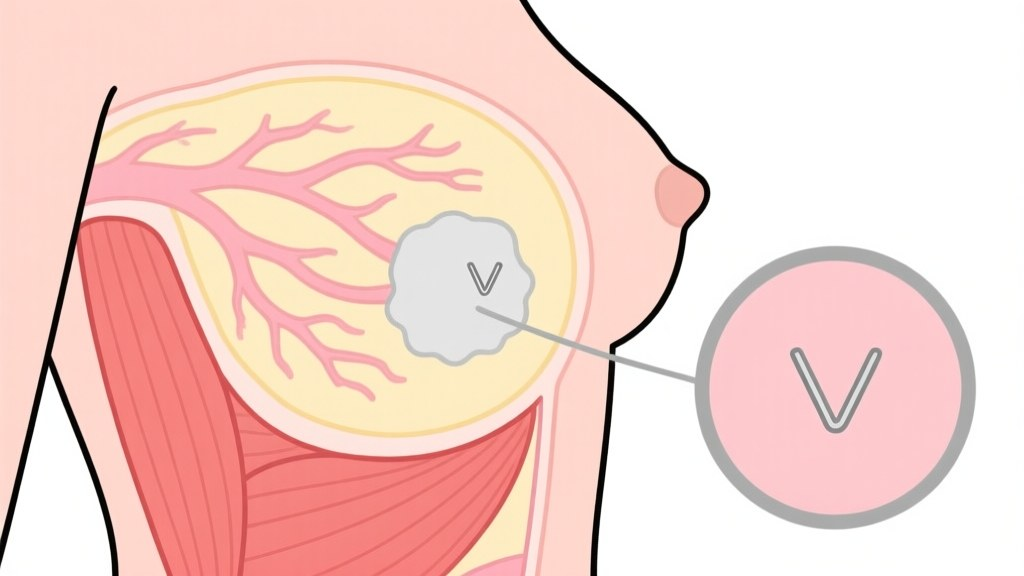
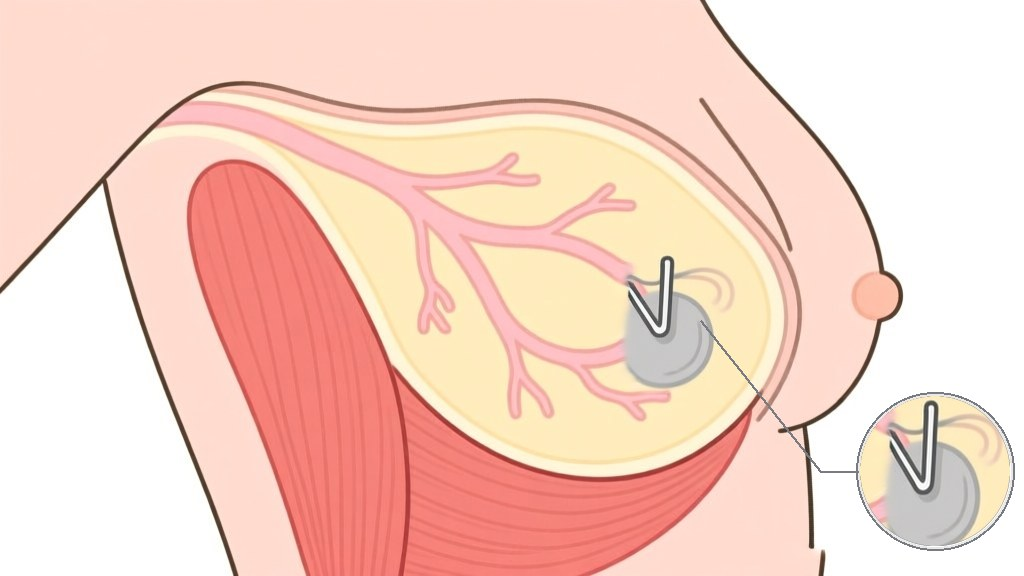
step 7 per Alex: the marker clip now sits in the SAME deep lump as step 1 — rebuilt by inpainting step 1's own illustration (mask over its lump + inset area) and compositing the magnified inset with a leader line, so the two illustrations share one breast and one lesion by construction

diff --git a/index2.html b/index2.html
@@ -597,31 +597,31 @@ const I18N={"en":{"html":{"k01":"Larger text","k02":"High contrast","k03":"Print
   const STEPS = [
     {t:"Your breast and the lump",
      n:"The lump your doctor wants to check is inside your breast. Most breast lumps are not cancer, but a sample is the only way to know for certain.",
-     media:{kind:'img', src:'assets/b1_anatomy.jpg?v=13', alt:"Side-view illustration of the breast: fat, gland and ducts around a grey lump, sitting on the chest muscle."}},
+     media:{kind:'img', src:'assets/b1_anatomy.jpg?v=14', alt:"Side-view illustration of the breast: fat, gland and ducts around a grey lump, sitting on the chest muscle."}},
     {t:"Finding the lump with ultrasound",
      n:"You lie on your back with your arm above your head. The doctor moves an ultrasound probe over the skin, and the screen shows the lump, where it sits and how deep it is.",
-     media:{kind:'vid', src:'assets/m2_probe_glide.mp4?v=13', poster:'assets/b2_probe.jpg', alt:"A sterile-sleeved ultrasound probe glides over the skin with a little clear gel, guided by a gloved hand."}},
+     media:{kind:'vid', src:'assets/m2_probe_glide.mp4?v=14', poster:'assets/b2_probe.jpg', alt:"A sterile-sleeved ultrasound probe glides over the skin with a little clear gel, guided by a gloved hand."}},
     {t:"Cleaning the skin",
      n:"The skin over the lump is cleaned and the area is covered with a sterile drape. That is all this step involves, and it takes a moment.",
-     media:{kind:'vid', src:'assets/m3_drape.mp4?v=13', poster:'assets/b3_drape.jpg', alt:"Gloved hands unfold a light-blue sterile drape and bring it gently toward you."}},
+     media:{kind:'vid', src:'assets/m3_drape.mp4?v=14', poster:'assets/b3_drape.jpg', alt:"Gloved hands unfold a light-blue sterile drape and bring it gently toward you."}},
     {t:"Numbing the area",
      n:"Local anaesthetic is injected into the skin and deeper into the breast. It stings for a few seconds, and then the area goes numb. You stay awake the whole time.",
-     media:{kind:'vid', src:'assets/m4_lido.mp4?v=13', poster:'assets/b4_lido.jpg?v=13', alt:"A small syringe with a fine needle advances into the skin beside the areola; the skin dimples as the anaesthetic goes in."}},
+     media:{kind:'vid', src:'assets/m4_lido.mp4?v=14', poster:'assets/b4_lido.jpg?v=14', alt:"A small syringe with a fine needle advances into the skin beside the areola; the skin dimples as the anaesthetic goes in."}},
     {t:"A small nick in the skin",
      n:"The anaesthetic has taken effect and the skin is numb. A tiny nick is made in the skin at the spot the needle will enter, so the biopsy needle passes through cleanly.",
-     media:{kind:'img', src:'assets/b5_nick.jpg?v=13', alt:"A blue-gloved hand holds a fine scalpel blade against the numb skin, making a tiny nick at the entry spot."}},
+     media:{kind:'img', src:'assets/b5_nick.jpg?v=14', alt:"A blue-gloved hand holds a fine scalpel blade against the numb skin, making a tiny nick at the entry spot."}},
     {t:"The biopsy needle goes in",
      n:"The biopsy needle is introduced under ultrasound guidance and guided into the lump. Each time the device fires you will hear a short, sharp click as a thin core of tissue is taken; the needle is drawn back and re-introduced until enough tissue has been collected.",
-     media:{kind:'vid', src:'assets/m6_needle.mp4?v=13', poster:'assets/b6_needle.jpg?v=13', alt:"Beside the flat grey linear ultrasound probe, the biopsy needle advances into the skin beside the areola and stops, the skin dimpling at the entry point."}},
+     media:{kind:'vid', src:'assets/m6_needle.mp4?v=14', poster:'assets/b6_needle.jpg?v=14', alt:"Beside the flat grey linear ultrasound probe, the biopsy needle advances into the skin beside the areola and stops, the skin dimpling at the entry point."}},
     {t:"The marker clip",
      n:"A very small clip is left at the spot, so the area can be found again later. You cannot feel it, and it is safe to have an MRI scan with it in place.",
-     media:{kind:'img', src:'assets/b7_clip.jpg?v=13', alt:"Side-view illustration: a small metallic marker clip sits inside the grey lump; a magnified inset shows the clip."}},
+     media:{kind:'img', src:'assets/b7_clip.jpg?v=14', alt:"Side-view illustration: a small metallic marker clip sits inside the grey lump; a magnified inset shows the clip."}},
     {t:"Pressure, then a dressing",
      n:"Firm pressure is held over the spot to stop any bleeding, then a dressing is applied. It stays on, and stays dry, for 48 hours.",
-     media:{kind:'vid', src:'assets/m8_dressing.mp4?v=13', poster:'assets/b8_dressing.jpg?v=13', alt:"A blue-gloved hand presses a folded square of sterile gauze firmly onto the skin beside the areola; a strip of tape lies ready on the drape."}},
+     media:{kind:'vid', src:'assets/m8_dressing.mp4?v=14', poster:'assets/b8_dressing.jpg?v=14', alt:"A blue-gloved hand presses a folded square of sterile gauze firmly onto the skin beside the areola; a strip of tape lies ready on the drape."}},
     {t:"Afterwards, and your results",
      n:"The numbness wears off within a few hours. Soreness and bruising settle over a few days to two weeks. Use paracetamol if you need it, not ibuprofen or aspirin. Results usually take about two weeks.",
-     media:{kind:'img', src:'assets/b9_after.jpg?v=13', alt:"From below, the masked, capped clinician looks down with a warm smile and a reassuring nod; a band of blue drape runs along the bottom of the frame."}},
+     media:{kind:'img', src:'assets/b9_after.jpg?v=14', alt:"From below, the masked, capped clinician looks down with a warm smile and a reassuring nod; a band of blue drape runs along the bottom of the frame."}},
   ];
 
   let cur=0, playing=false, guided=false, timer=null, curClip=null;

diff --git a/src2/app_media.js b/src2/app_media.js
@@ -17,31 +17,31 @@
   const STEPS = [
     {t:"Your breast and the lump",
      n:"The lump your doctor wants to check is inside your breast. Most breast lumps are not cancer, but a sample is the only way to know for certain.",
-     media:{kind:'img', src:'assets/b1_anatomy.jpg?v=13', alt:"Side-view illustration of the breast: fat, gland and ducts around a grey lump, sitting on the chest muscle."}},
+     media:{kind:'img', src:'assets/b1_anatomy.jpg?v=14', alt:"Side-view illustration of the breast: fat, gland and ducts around a grey lump, sitting on the chest muscle."}},
     {t:"Finding the lump with ultrasound",
      n:"You lie on your back with your arm above your head. The doctor moves an ultrasound probe over the skin, and the screen shows the lump, where it sits and how deep it is.",
-     media:{kind:'vid', src:'assets/m2_probe_glide.mp4?v=13', poster:'assets/b2_probe.jpg', alt:"A sterile-sleeved ultrasound probe glides over the skin with a little clear gel, guided by a gloved hand."}},
+     media:{kind:'vid', src:'assets/m2_probe_glide.mp4?v=14', poster:'assets/b2_probe.jpg', alt:"A sterile-sleeved ultrasound probe glides over the skin with a little clear gel, guided by a gloved hand."}},
     {t:"Cleaning the skin",
      n:"The skin over the lump is cleaned and the area is covered with a sterile drape. That is all this step involves, and it takes a moment.",
-     media:{kind:'vid', src:'assets/m3_drape.mp4?v=13', poster:'assets/b3_drape.jpg', alt:"Gloved hands unfold a light-blue sterile drape and bring it gently toward you."}},
+     media:{kind:'vid', src:'assets/m3_drape.mp4?v=14', poster:'assets/b3_drape.jpg', alt:"Gloved hands unfold a light-blue sterile drape and bring it gently toward you."}},
     {t:"Numbing the area",
      n:"Local anaesthetic is injected into the skin and deeper into the breast. It stings for a few seconds, and then the area goes numb. You stay awake the whole time.",
-     media:{kind:'vid', src:'assets/m4_lido.mp4?v=13', poster:'assets/b4_lido.jpg?v=13', alt:"A small syringe with a fine needle advances into the skin beside the areola; the skin dimples as the anaesthetic goes in."}},
+     media:{kind:'vid', src:'assets/m4_lido.mp4?v=14', poster:'assets/b4_lido.jpg?v=14', alt:"A small syringe with a fine needle advances into the skin beside the areola; the skin dimples as the anaesthetic goes in."}},
     {t:"A small nick in the skin",
      n:"The anaesthetic has taken effect and the skin is numb. A tiny nick is made in the skin at the spot the needle will enter, so the biopsy needle passes through cleanly.",
-     media:{kind:'img', src:'assets/b5_nick.jpg?v=13', alt:"A blue-gloved hand holds a fine scalpel blade against the numb skin, making a tiny nick at the entry spot."}},
+     media:{kind:'img', src:'assets/b5_nick.jpg?v=14', alt:"A blue-gloved hand holds a fine scalpel blade against the numb skin, making a tiny nick at the entry spot."}},
     {t:"The biopsy needle goes in",
      n:"The biopsy needle is introduced under ultrasound guidance and guided into the lump. Each time the device fires you will hear a short, sharp click as a thin core of tissue is taken; the needle is drawn back and re-introduced until enough tissue has been collected.",
-     media:{kind:'vid', src:'assets/m6_needle.mp4?v=13', poster:'assets/b6_needle.jpg?v=13', alt:"Beside the flat grey linear ultrasound probe, the biopsy needle advances into the skin beside the areola and stops, the skin dimpling at the entry point."}},
+     media:{kind:'vid', src:'assets/m6_needle.mp4?v=14', poster:'assets/b6_needle.jpg?v=14', alt:"Beside the flat grey linear ultrasound probe, the biopsy needle advances into the skin beside the areola and stops, the skin dimpling at the entry point."}},
     {t:"The marker clip",
      n:"A very small clip is left at the spot, so the area can be found again later. You cannot feel it, and it is safe to have an MRI scan with it in place.",
-     media:{kind:'img', src:'assets/b7_clip.jpg?v=13', alt:"Side-view illustration: a small metallic marker clip sits inside the grey lump; a magnified inset shows the clip."}},
+     media:{kind:'img', src:'assets/b7_clip.jpg?v=14', alt:"Side-view illustration: a small metallic marker clip sits inside the grey lump; a magnified inset shows the clip."}},
     {t:"Pressure, then a dressing",
      n:"Firm pressure is held over the spot to stop any bleeding, then a dressing is applied. It stays on, and stays dry, for 48 hours.",
-     media:{kind:'vid', src:'assets/m8_dressing.mp4?v=13', poster:'assets/b8_dressing.jpg?v=13', alt:"A blue-gloved hand presses a folded square of sterile gauze firmly onto the skin beside the areola; a strip of tape lies ready on the drape."}},
+     media:{kind:'vid', src:'assets/m8_dressing.mp4?v=14', poster:'assets/b8_dressing.jpg?v=14', alt:"A blue-gloved hand presses a folded square of sterile gauze firmly onto the skin beside the areola; a strip of tape lies ready on the drape."}},
     {t:"Afterwards, and your results",
      n:"The numbness wears off within a few hours. Soreness and bruising settle over a few days to two weeks. Use paracetamol if you need it, not ibuprofen or aspirin. Results usually take about two weeks.",
-     media:{kind:'img', src:'assets/b9_after.jpg?v=13', alt:"From below, the masked, capped clinician looks down with a warm smile and a reassuring nod; a band of blue drape runs along the bottom of the frame."}},
+     media:{kind:'img', src:'assets/b9_after.jpg?v=14', alt:"From below, the masked, capped clinician looks down with a warm smile and a reassuring nod; a band of blue drape runs along the bottom of the frame."}},
   ];
 
   let cur=0, playing=false, guided=false, timer=null, curClip=null;
